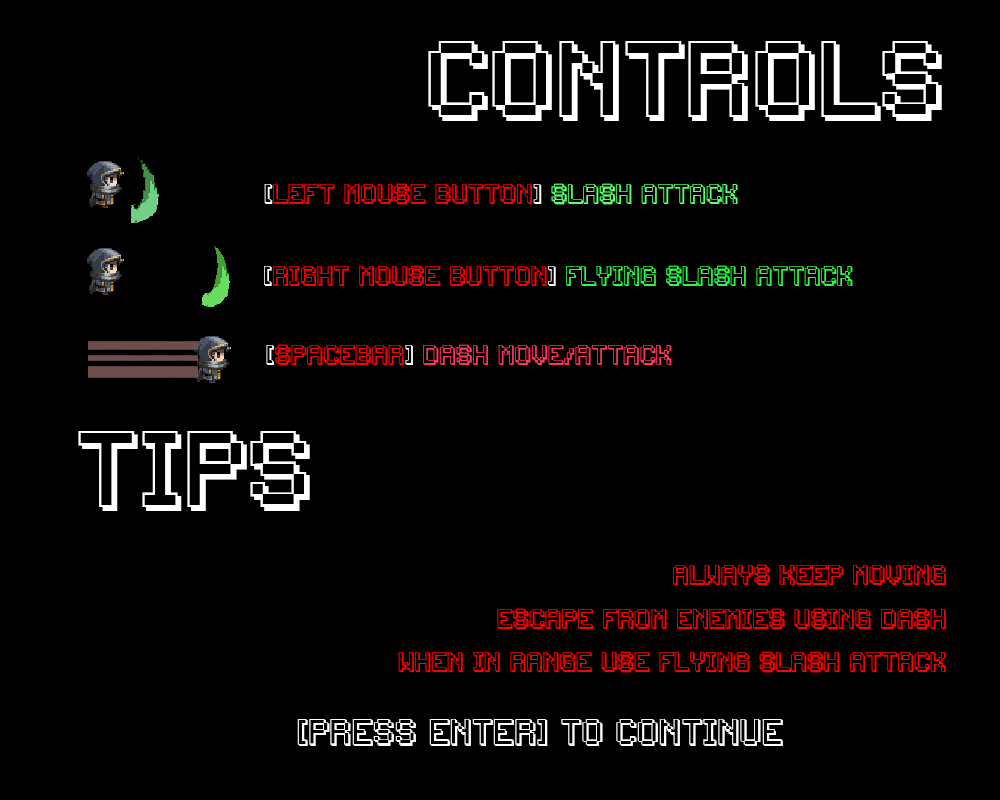
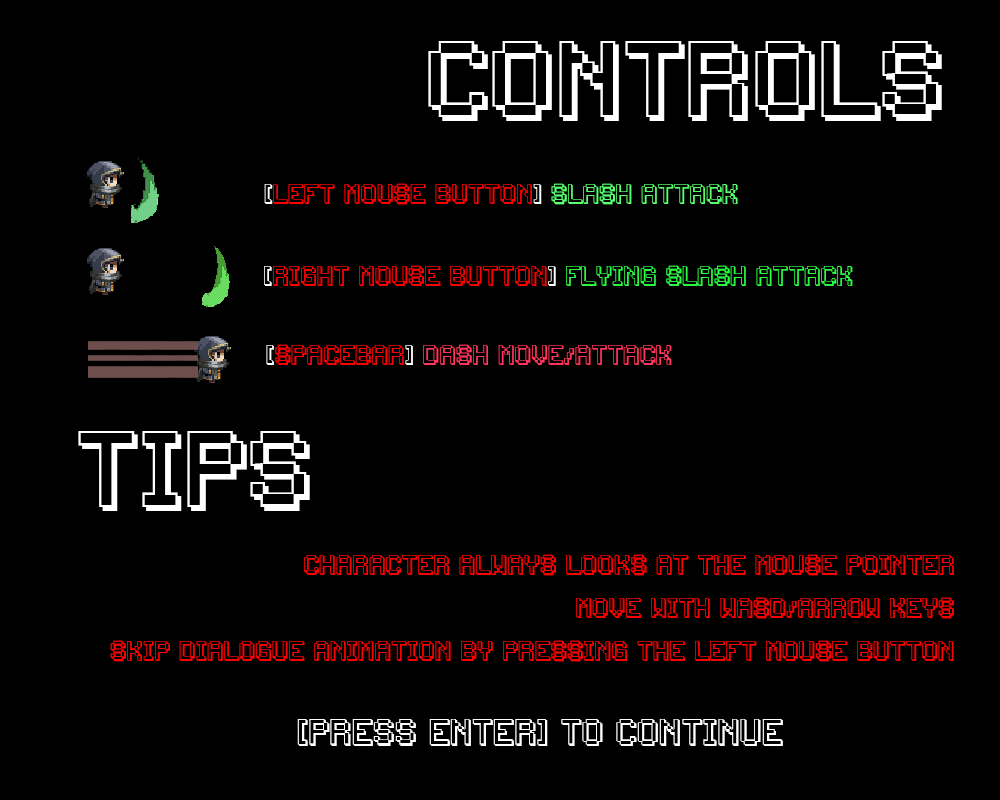
Added controls tutorial screen

Changed region(s): [[0.093, 0.6875, 0.961, 0.8438]]

diff --git a/Source/Scene.cpp b/Source/Scene.cpp
@@ -8,9 +8,11 @@ Scene::~Scene() {
 	SDL_DestroyTexture(diedIMG);
 	SDL_DestroyTexture(startIMG);
 	SDL_DestroyTexture(endIMG);
+	SDL_DestroyTexture(infoIMG);
 	if (loseBox) delete loseBox;
 	if (loseText) delete loseText;
 	if(endScreen) delete endScreen;
+	if (controlsScreen) delete controlsScreen;
 }
 
 void Scene::update(float deltaTime) {
@@ -46,6 +48,7 @@ Scene::Scene(SDL_Renderer * renderer, Graphics * graphics) {
 	diedIMG = IMG_LoadTexture(renderer, ASSET_DIR UI_DIR "death.png");
 	startIMG = IMG_LoadTexture(renderer, ASSET_DIR "titleScreen.png");
 	endIMG = IMG_LoadTexture(renderer, ASSET_DIR "tbc.png");
+	infoIMG = IMG_LoadTexture(renderer, ASSET_DIR "controls.png");
 }
 
 void Scene::createPlayer(int globalPosX, int globalPosY, PlayerAnimator::LookDirection lookDirection) {
@@ -89,6 +92,26 @@ void Scene::hideLoseScreen() {
 		
 		
 	}
+}
+
+void Scene::showControlsScreen() {
+	if (controlsWindowOn) return;
+	controlsWindowOn = true;
+	controlsScreen = new Entity();
+	Transform* t = new Transform(controlsScreen, Globals::SCREEN_WIDTH, Globals::SCREEN_HEIGHT, CameraSystem::posX, CameraSystem::posY);
+	controlsScreen->addComponent(t);
+	Drawable* drw = new Drawable(controlsScreen, infoIMG, "infoscreen", Globals::UI);
+	controlsScreen->addComponent(drw);
+	graphics->addToDraw(controlsScreen);
+}
+
+void Scene::hideControlsScreen() {
+	controlsWindowOn = false;
+	graphics->removeFromDraw(controlsScreen);
+	delete controlsScreen;
+	controlsScreen = NULL;
+	SDL_DestroyTexture(infoIMG);
+	infoIMG = NULL;
 }
 
 void Scene::startScene() {

diff --git a/Source/EncounterScene.cpp b/Source/EncounterScene.cpp
@@ -265,19 +265,25 @@ void EncounterScene::preFightScenario(float deltaTime) {
 		if (!CameraSystem::isCameraMoving()) {
 			Transform* playerTransform = (Transform*)(player->findComponent(ComponentType::TRANSFORM));
 			CameraSystem::follow(&playerTransform->globalPosX, &playerTransform->globalPosY);
-			PlayerSystem::enableMovement();
+			
 			curAction = "fighting soldiers";
-			soldier2AI->attack(player);
+			
 			UIDesignSystem::showPlayerUI(player);
 			boundary1 = SceneDesignSystem::createBoundary(CameraSystem::posX, CameraSystem::posY, Globals::TILE_SIZE, Globals::SCREEN_HEIGHT);
 			boundary2 = SceneDesignSystem::createBoundary(CameraSystem::posX + Globals::SCREEN_WIDTH - Globals::TILE_SIZE, CameraSystem::posY, Globals::TILE_SIZE, Globals::SCREEN_HEIGHT);
 			CameraSystem::detachCamera();
 			graphics->addToDraw(boundary1);
 			graphics->addToDraw(boundary2);
+			
+			showControlsScreen();
 		}
 	}
 	if (curAction == "fighting soldiers") {
 		CameraSystem::allowedToMove = false;
+		if (!controlsWindowOn && soldier2AI->state == AISoldier::State::NORMAL) {
+			soldier2AI->attack(player);
+			PlayerSystem::enableMovement();
+		}
 		if (soldier2AI->state == AISoldier::DEAD) {
 			graphics->removeFromDraw(boundary1);
 			graphics->removeFromDraw(boundary2);

diff --git a/Source/Scene.h b/Source/Scene.h
@@ -14,11 +14,13 @@ public:
 	virtual void update(float deltaTime);
 	bool isGameOver() { return gameOver; }
 	bool isGameStarted() { return gameStarted; }
+	bool isControlsWindowOn() { return controlsWindowOn; }
 	void startScene();
 	void loadAction(std::string actionName) { curAction = actionName; }
 	void showStartScreen();
 	void hideStartScreen();
 	void showEndScreen();
+	void hideControlsScreen();
 protected:
 	SDL_Renderer* renderer;
 	Graphics* graphics;
@@ -38,15 +40,20 @@ protected:
 
 	bool gameOver = false;
 	bool gameStarted = false;
+	bool controlsWindowOn = false;
 	SDL_Texture* diedIMG;
 	SDL_Texture* startIMG;
 	SDL_Texture* endIMG;
+	SDL_Texture* infoIMG;
 	Entity* mainMenu = NULL;
 	Entity* endScreen = NULL;
+	Entity* controlsScreen = NULL;
 	Entity* loseBox = NULL;
 	Entity* loseText = NULL;
 	void showLoseScreen();
 	void hideLoseScreen();
+	void showControlsScreen();
+	
 	
 	
 

diff --git a/Source/Director.cpp b/Source/Director.cpp
@@ -51,8 +51,11 @@ void Director::getInput() {
 						curScene->loadAction("restart");
 					}
 					if (!curScene->isGameStarted()) {
-						//curScene->startScene();
-						curScene->loadAction("restart");
+						curScene->startScene();
+						//curScene->loadAction("restart");
+					}
+					if (curScene->isControlsWindowOn()) {
+						curScene->hideControlsScreen();
 					}
 				}
 				break;
